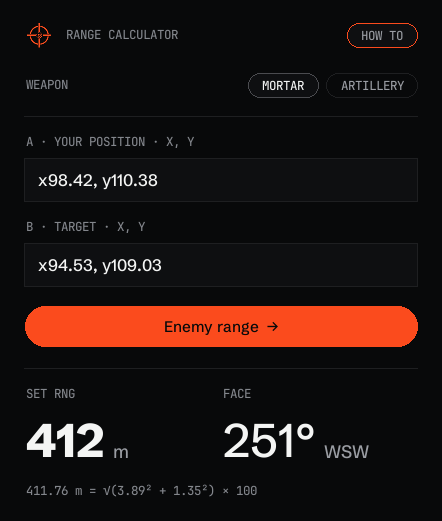
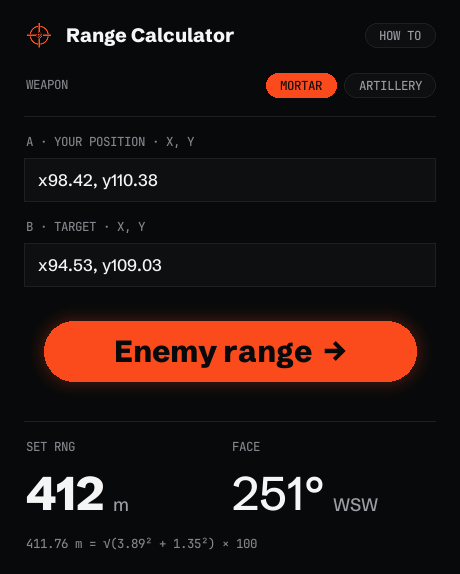
Match AutoClicker 1.6 styling; fixed width; weapon switch on How to (v1.2)
Claude-Session: https://claude.ai/code/session_01EgT5FX5KAE4dFoWsGCwVm8

diff --git a/AGENT_LOG.md b/AGENT_LOG.md
@@ -76,3 +76,7 @@ Compare it with DEVLOG.md: where the two logs disagree is where you learn the mo
 
 ## 2026-11-04: Repo renamed
 - Did: Repo renamed to jadanduffin/wardogs-range-calculator and made public by the user. Updated REPO in the app and README links, bumped to 1.1 so installed copies pick up the new name.
+
+## 2026-11-04: Match AutoClicker 1.6 (v1.2)
+- Did: Fixed window width (460 px) on every view and weapon; Mortar/Artillery switch also on the How to view; picked weapon is an orange pill; orange hover stroke on every button; view titles in Schibsted Grotesk ExtraBold 14, sentence case; Enemy range is AutoClicker's glowing primary pill (60 px, ExtraBold 22). Version 1.2.
+- Unsure about: AutoClicker itself cannot run here (Windows only), so the match is from its code, not a side-by-side screenshot.
